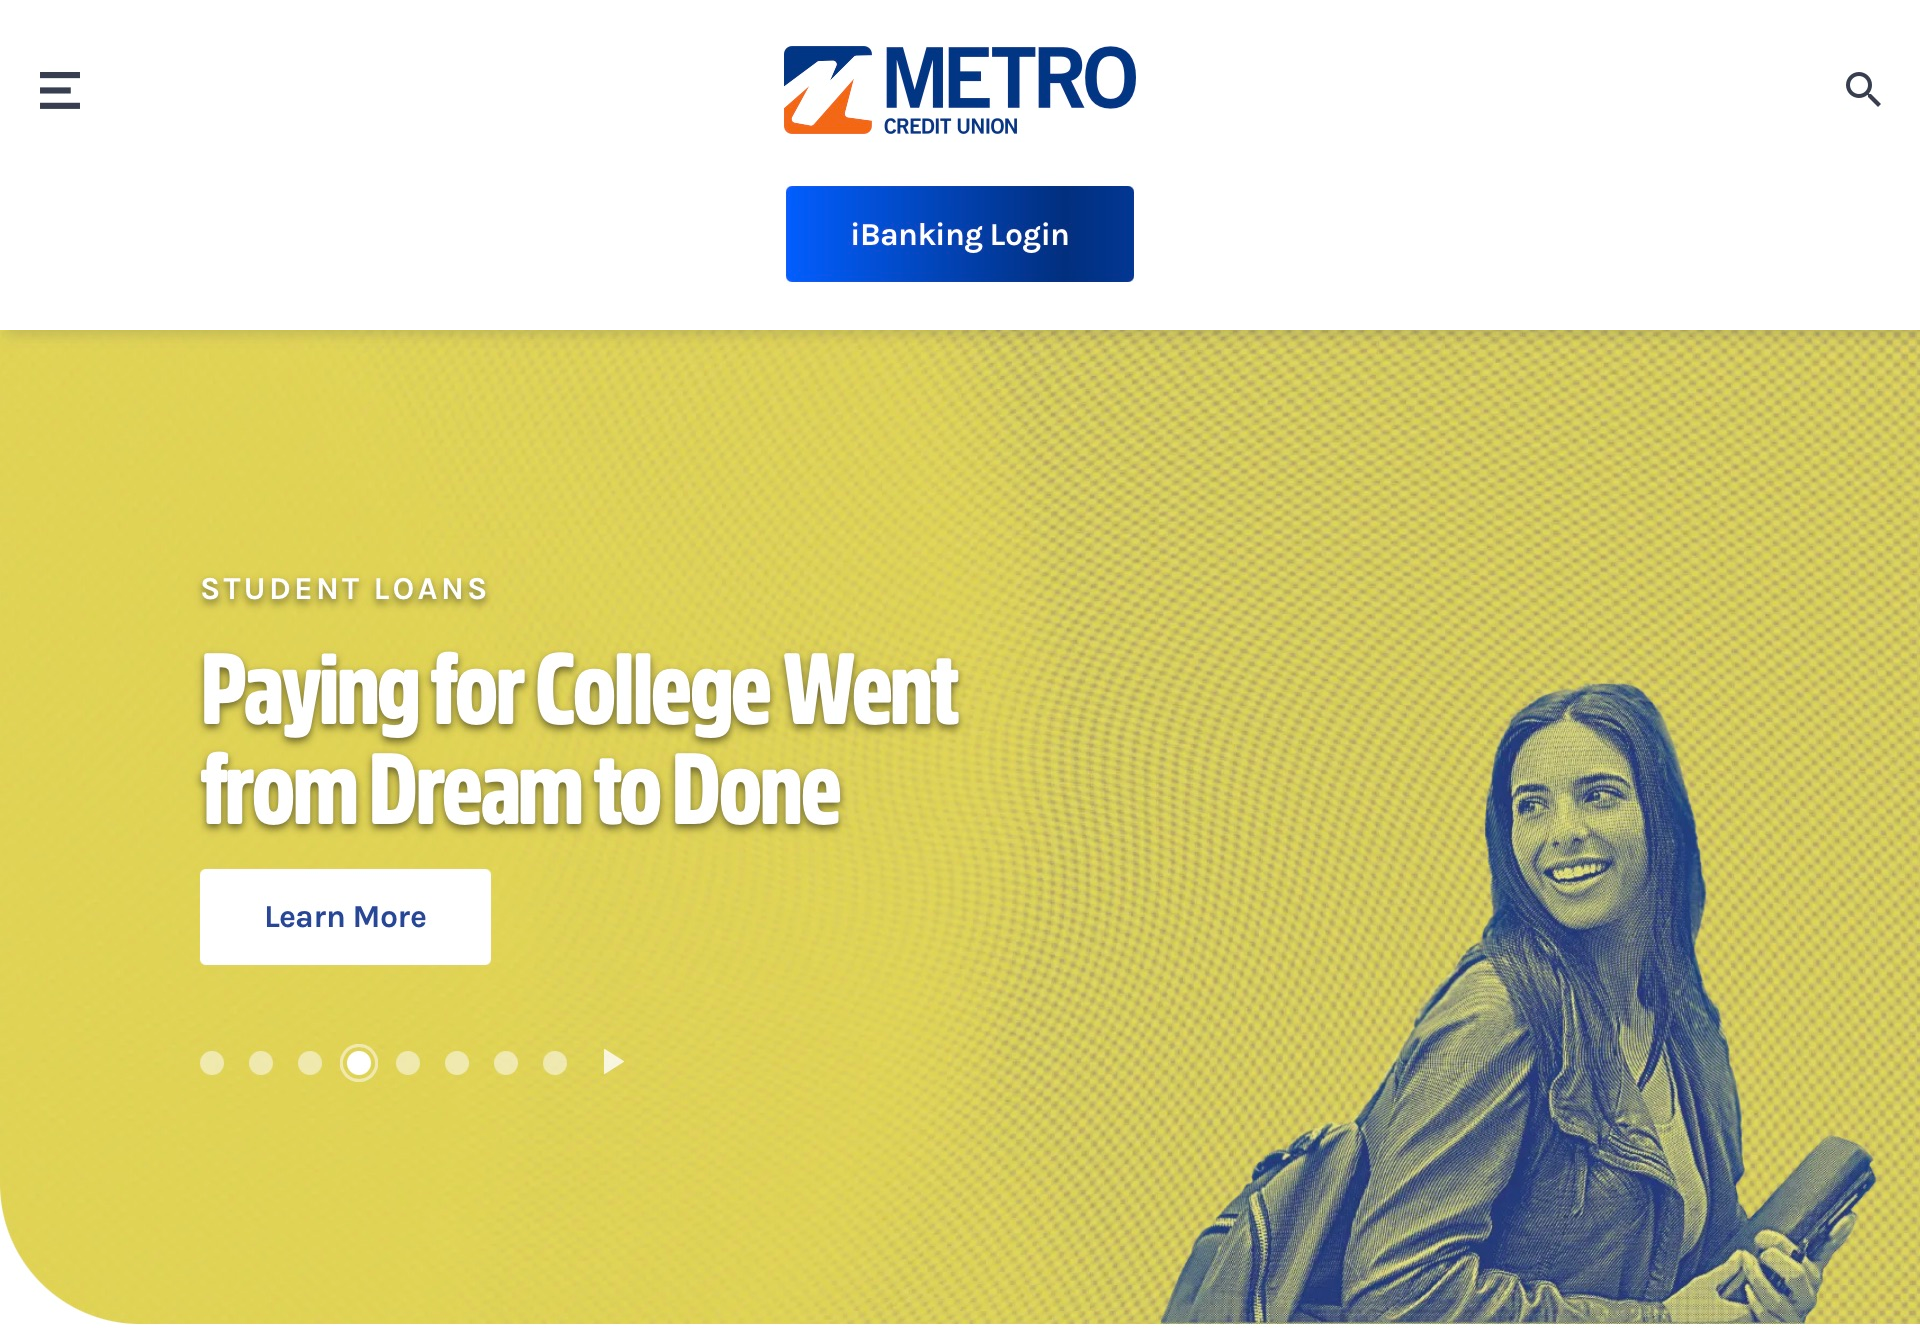
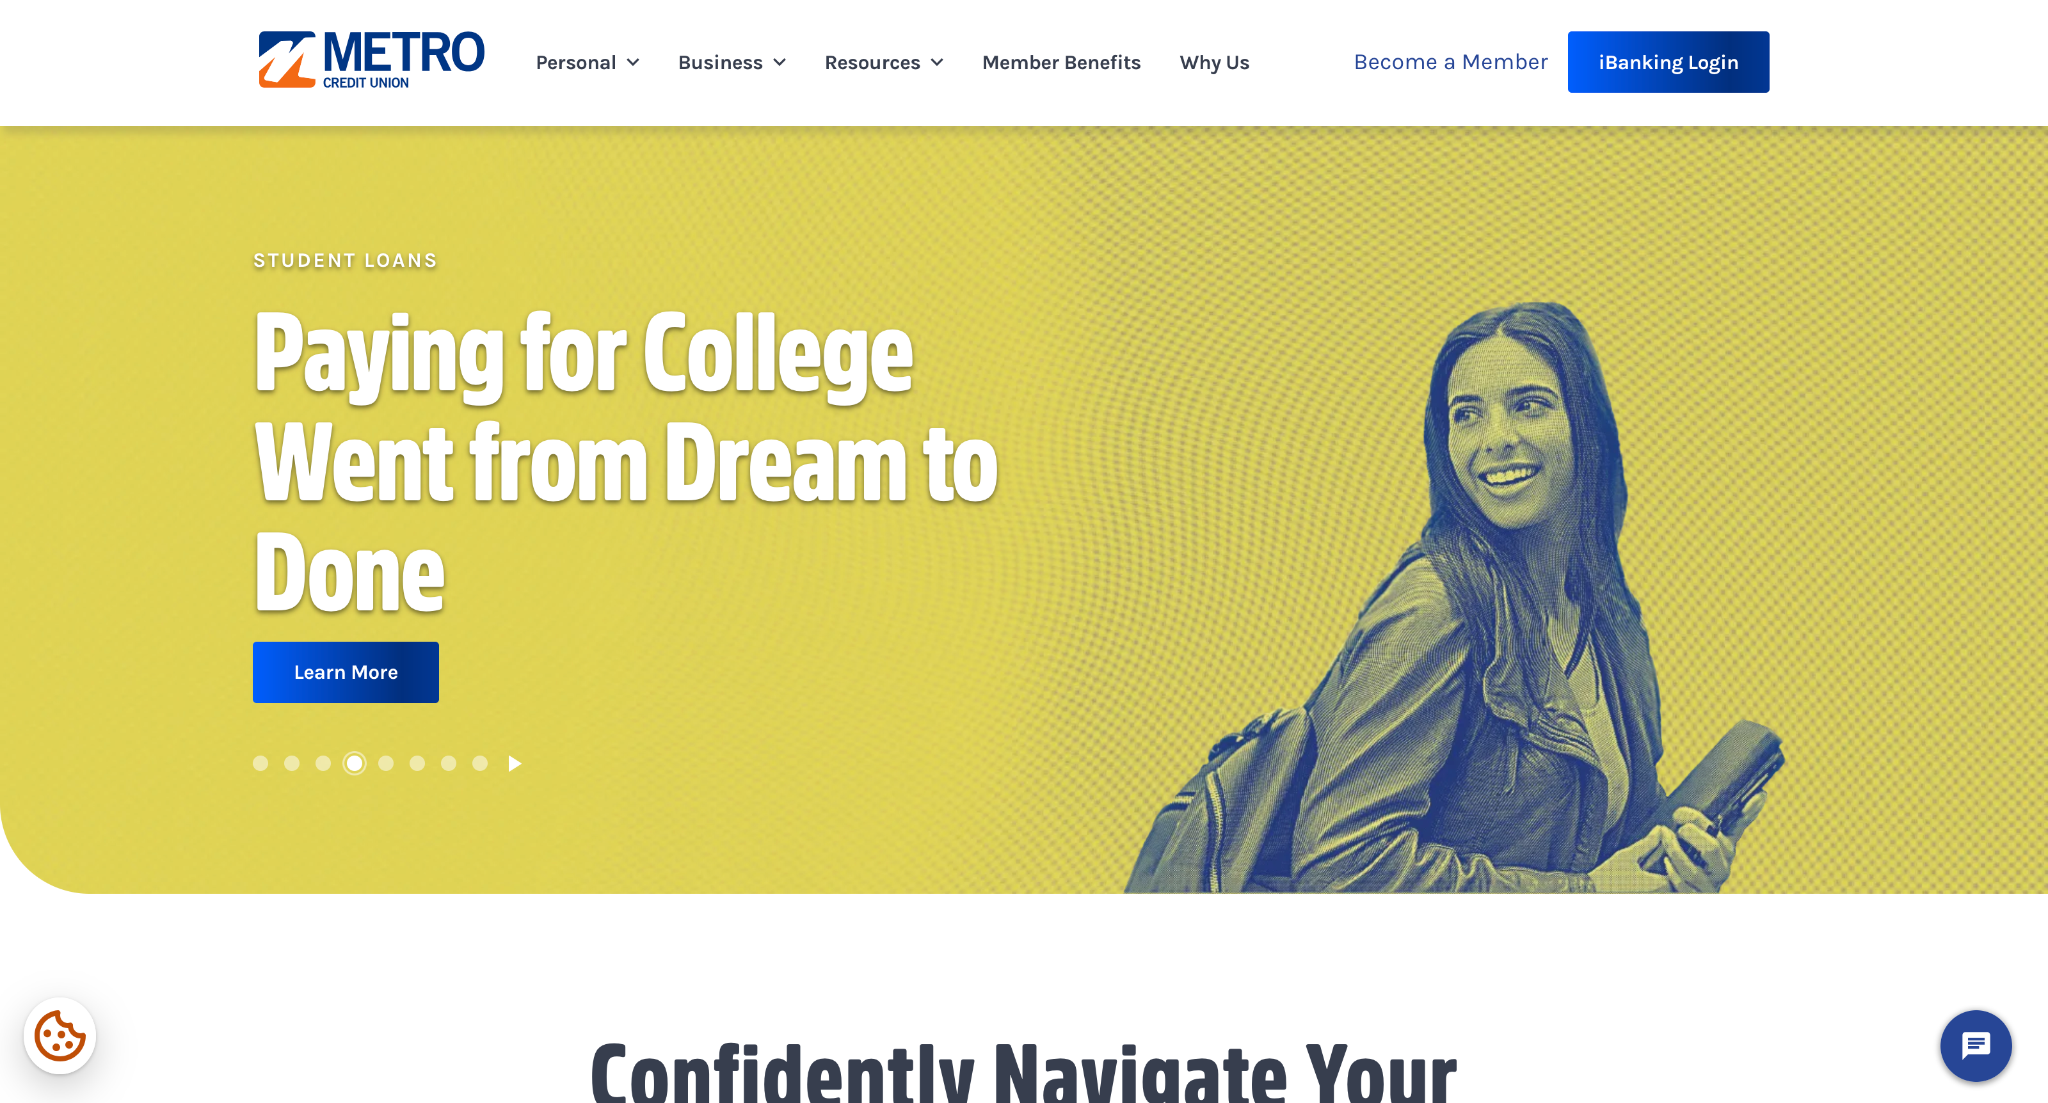
Use updated Metro portfolio screenshot

diff --git a/work.html b/work.html
@@ -164,9 +164,9 @@
             implementation and maintainability.
           </p>
           <p>
-            The visual pairs Metro's public site navigation with its Paying for
-            College carousel slide from separate captures. The work spanned the
-            wider website and its measurement.
+            The screenshot shows Metro's public site navigation and Paying for
+            College carousel slide. The work spanned the wider website and its
+            measurement.
           </p>
           <ul class="work-points">
             <li>Developed Craft CMS pages, content, and layouts</li>
@@ -182,14 +182,13 @@
         <figure class="work-detail__media work-detail__media--metro">
           <img
             src="assets/work/metro-student-loans.png"
-            alt="Metro Credit Union top navigation and Paying for College Went from Dream to Done carousel slide, shown from separate public captures"
+            alt="Metro Credit Union website navigation and Paying for College Went from Dream to Done carousel slide"
             loading="lazy"
-            width="1920"
-            height="1340"
+            width="2048"
+            height="1103"
           />
           <figcaption>
-            Metro Credit Union navigation and student-loans slide · separate
-            public captures
+            Metro Credit Union website · student-loans homepage capture
           </figcaption>
         </figure>
       </section>

diff --git a/index.html b/index.html
@@ -223,9 +223,9 @@
             <img
               loading="lazy"
               src="assets/work/metro-student-loans.png"
-              alt="Metro Credit Union navigation above its Paying for College student-loans carousel slide, shown from separate public captures"
-              width="1920"
-              height="1340"
+              alt="Metro Credit Union website navigation and Paying for College student-loans carousel"
+              width="2048"
+              height="1103"
             />
             <div class="card__body">
               <p class="work-label">Web strategy · Development · Support</p>

diff --git a/docs/portfolio-assets.md b/docs/portfolio-assets.md
@@ -4,20 +4,19 @@ The following image files were visually reviewed before inclusion in the
 public site. They are screenshots of work or a rendered demo report, not stock
 photography.
 
-| Public asset                               | Source                                                                                                                                                                   | Public presentation                                                                                                                                                                                                                             |
-| ------------------------------------------ | ------------------------------------------------------------------------------------------------------------------------------------------------------------------------ | ----------------------------------------------------------------------------------------------------------------------------------------------------------------------------------------------------------------------------------------------- |
-| `assets/work/uaid-usa-home.png`            | Library file `libfile_44dd8e2f2eb8819184667b75f5c97d1e`, `clean-02-uaid-usa-home.png`                                                                                    | UAid Direct USA homepage screenshot                                                                                                                                                                                                             |
-| `assets/work/metro-student-loans.png`      | Library files `libfile_e6482f2d44b88191a943ef16576494aa` (`05-metro-home.png`) and `libfile_466cf7443e5481919e8d71502ae2409f` (`clean-12-metro-student-loans-slide.png`) | Exact-pixel composition of the public Metro navigation and “Paying for College” slide from separate captures; no browser chrome or private tabs. Website work is in-house employment with agency partners, with no claim of creating the slide. |
-| `assets/work/northside-dashboard-demo.png` | First page rendered from Library file `libfile_d8d9b97bb2308191bbc9954d48c3be4d`, `Northside_Heating_Boiler_Care_2026-10-10_QA_CPL_Revision_All_8_Pages.pdf`             | Synthetic Looker Studio portfolio demo, never a real client outcome                                                                                                                                                                             |
+| Public asset                               | Source                                                                                                                                                       | Public presentation                                                                                                                                                                                                       |
+| ------------------------------------------ | ------------------------------------------------------------------------------------------------------------------------------------------------------------ | ------------------------------------------------------------------------------------------------------------------------------------------------------------------------------------------------------------------------- |
+| `assets/work/uaid-usa-home.png`            | Library file `libfile_44dd8e2f2eb8819184667b75f5c97d1e`, `clean-02-uaid-usa-home.png`                                                                        | UAid Direct USA homepage screenshot                                                                                                                                                                                       |
+| `assets/work/metro-student-loans.png`      | Owner-provided Library file `libfile_d5eabed1bff8819197198029bb5a4c23`, `Screenshot 2026-10-12 at 10.39.53.png`                                              | Single Metro website screenshot showing navigation, the “Paying for College” slide, and the beginning of the next section. Website work is in-house employment with agency partners, with no claim of creating the slide. |
+| `assets/work/northside-dashboard-demo.png` | First page rendered from Library file `libfile_d8d9b97bb2308191bbc9954d48c3be4d`, `Northside_Heating_Boiler_Care_2026-10-10_QA_CPL_Revision_All_8_Pages.pdf` | Synthetic Looker Studio portfolio demo, never a real client outcome                                                                                                                                                       |
 
 The Northside screenshot includes the visible label “Portfolio demo · synthetic
 sample data.” Website copy repeats that disclosure beside the image.
 
-The Metro image combines two public site captures so the complete top navigation
-and approved student-loans slide are both visible. It is labeled as separate
-captures on the site; it is not represented as one continuous browser screenshot.
-The utility-navigation strip and lower section were excluded from the final
-crop. Its on-screen frame matches the other work-page images.
+The Metro image is a single owner-provided public site capture. It includes the
+site navigation, the approved student-loans slide, and the top of the next
+section. The visible chat and cookie controls are part of the supplied capture.
+Its on-screen frame matches the other work-page images.
 
 Do not replace these images with other client screenshots without reviewing
 the pixels, verifying the source and permissions, and checking for private
